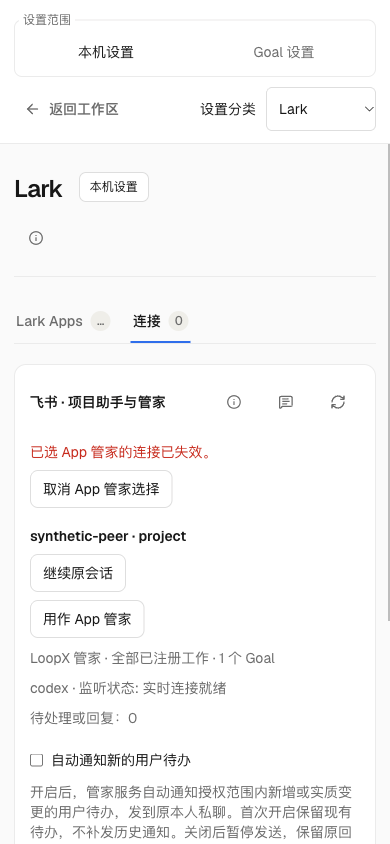
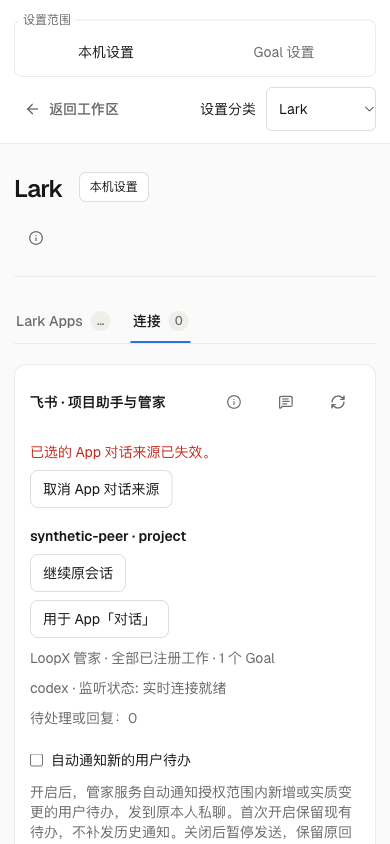
Clarify App Conversation scope and cover later source changes

diff --git a/apps/presentation/dashboard/src/features/personal-workspace/private-conversation-panel.tsx b/apps/presentation/dashboard/src/features/personal-workspace/private-conversation-panel.tsx
@@ -130,9 +130,9 @@ export function PrivateConversationPanel({apps, onOpenOriginal}: {apps: LarkApp[
       <button className="personal-private-refresh" disabled={busy} aria-label={zh ? "刷新状态" : "Refresh status"} onClick={() => void act(refresh)} type="button"><RefreshCw size={16} aria-hidden="true"/></button>
     </header>
     {appStewardBindingId !== null && !rows.some(row => row.binding_id === appStewardBindingId) ? <div className="personal-detail-actions">
-      <p role="alert">{zh ? "已选 App 管家的连接已失效。" : "The selected App steward connection is unavailable."}</p>
+      <p role="alert">{zh ? "已选的 App 对话来源已失效。" : "The selected App Conversation source is unavailable."}</p>
       <button type="button" disabled={busy} onClick={() => void act(() => selectAppSteward(null, revision))}>
-        {zh ? "取消 App 管家选择" : "Clear App steward selection"}</button>
+        {zh ? "取消 App 对话来源" : "Clear App Conversation source"}</button>
     </div> : null}
     {rows.map(row => <article className="personal-private-connection" key={row.binding_id}>
       <header className="personal-private-heading">
@@ -143,7 +143,7 @@ export function PrivateConversationPanel({apps, onOpenOriginal}: {apps: LarkApp[
       {row.context_kind === "steward" && row.audience === "owner" ? <button type="button" disabled={busy || (!row.context_available && appStewardBindingId !== row.binding_id)}
         aria-pressed={appStewardBindingId === row.binding_id}
         onClick={() => void act(() => selectAppSteward(appStewardBindingId === row.binding_id ? null : row.binding_id, revision))}>
-        {appStewardBindingId === row.binding_id ? (zh ? "App 管家 · 取消选择" : "App steward · Clear selection") : (zh ? "用作 App 管家" : "Use as App steward")}</button> : null}
+        {appStewardBindingId === row.binding_id ? (zh ? "App「对话」· 取消选择" : "App Conversation · Clear selection") : (zh ? "用于 App「对话」" : "Use for App Conversation")}</button> : null}
       </header>
       <p>{row.context_kind === "steward" ? (row.goal_scope === "all_registered"
         ? (zh ? `LoopX 管家 · 全部已注册工作 · ${row.goal_count} 个 Goal` : `LoopX steward · All registered work · ${row.goal_count} Goals`)

diff --git a/apps/presentation/dashboard/smoke/app-steward-smoke.ts b/apps/presentation/dashboard/smoke/app-steward-smoke.ts
@@ -34,7 +34,7 @@ try {
   const before = await inspect();
   assert.equal(before.sessions, 3);
   assert.equal(await fetchAppStewardTarget(), null, "No implicit selection between two original stewards");
-  const peer = connections.connections.find(row => row.app_ref === "synthetic-peer")!;
+  let peer = connections.connections.find(row => row.app_ref === "synthetic-peer")!;
   assert.ok(peer && peer.binding_id !== bindingId);
   connections = await selectAppSteward(bindingId, connections.revision);
   const target = {bindingId, sessionId};
@@ -59,6 +59,16 @@ try {
   assert.equal(after.sessions, before.sessions);
   assert.deepEqual(after.messages, before.messages);
   assert.equal(after.native_requests, before.native_requests, "Entry lookup and preference never invoke a model or replay a Turn");
+  child.stdin.write("replace-peer\n");
+  const replaced = await next();
+  connections = await fetchPrivateConversations();
+  const futurePeer = connections.connections.find(row => row.app_ref === "synthetic-peer")!;
+  assert.notEqual(futurePeer.binding_id, peer.binding_id);
+  assert.equal(futurePeer.binding_id, replaced.new_peer_binding_id);
+  assert.deepEqual(await fetchAppStewardTarget(), target, "A newly connected steward cannot capture the selected entry");
+  peer = futurePeer;
+  child.stdin.write("close\n"); await next();
+  await assert.rejects(() => fetchAppStewardTarget(), /selected original steward is unavailable/);
   child.stdin.write("revoke\n"); await next();
   connections = await fetchPrivateConversations();
   assert.equal(connections.app_steward_binding_id, bindingId);

diff --git a/apps/presentation/dashboard/src/features/personal-workspace/app-steward-entry.tsx b/apps/presentation/dashboard/src/features/personal-workspace/app-steward-entry.tsx
@@ -37,7 +37,7 @@ export function AppStewardEntry({children, onOpen}: {children: ReactNode; onOpen
   settings.searchParams.set("settings_tab", "lark");
   return <main className="mx-auto flex min-h-dvh max-w-xl flex-col justify-center gap-5 p-6 text-slate-900 dark:text-zinc-100">
     <h1 className="text-xl font-semibold">{zh ? "LoopX 管家" : "LoopX steward"}</h1>
-    {state === "loading" ? <p role="status">{zh ? "正在打开原管家会话…" : "Opening the original steward conversation…"}</p> : <>
+    {state === "loading" ? <p role="status">{zh ? "正在打开管家对话…" : "Opening the steward conversation…"}</p> : <>
       <p role="alert">{zh ? "原管家会话暂不可用。请检查所选连接后重试。" : "The original steward conversation is unavailable. Check the selected connection and retry."}</p>
       <div className="flex flex-wrap gap-3">
         <Button onClick={() => {setState("loading"); setRevision(value => value + 1);}}>{zh ? "重试" : "Retry"}</Button>

diff --git a/apps/presentation/dashboard/smoke/bound-conversation-http-fixture.py b/apps/presentation/dashboard/smoke/bound-conversation-http-fixture.py
@@ -6,6 +6,7 @@ credentials or model account is read or contacted. Stdin controls source events.
 from __future__ import annotations
 
 import json
+import os
 from pathlib import Path
 import runpy
 import socket
@@ -16,7 +17,8 @@ import threading
 import pytest
 
 REPO = Path(__file__).resolve().parents[4]
-sys.path[:0] = [str(REPO), str(REPO / "tests/control_plane")]
+BACKEND = Path(os.environ.get("LOOPX_CHAT_FIXTURE_BACKEND_ROOT", REPO)).resolve()
+sys.path[:0] = [str(BACKEND), str(REPO), str(REPO / "tests/control_plane")]
 from canonical_authority_fixture import isolate_sqlite_runtime, promoted_create_fixture
 from loopx.chat_server import serve_chat
 
@@ -28,6 +30,7 @@ class SyntheticPrivateSource:
     def __init__(self, root, *, steward=False, peer=False):
         self.root, self.verified = root, True
         self.steward, self.peer = steward, peer
+        self.peer_provider = None
         if peer:
             self.transport_ref = "synthetic-peer"
 
@@ -80,6 +83,12 @@ class SyntheticPrivateSource:
                 elif command == "close":
                     server.chat_store.update_session(sid, status="closed")
                     result = {"closed": True}
+                elif command == "replace-peer" and self.peer_provider is not None:
+                    old = next(row for row in bindings.read()["bindings"] if row["transport_ref"] == self.peer_provider.transport_ref)
+                    bindings.disconnect(old["binding_id"], expected_revision=bindings.read()["revision"])
+                    self.peer_provider.start(server)
+                    fresh = next(row for row in bindings.read()["bindings"] if row["transport_ref"] == self.peer_provider.transport_ref)
+                    result = {"old_peer_binding_id": old["binding_id"], "new_peer_binding_id": fresh["binding_id"]}
                 elif command == "revoke":
                     bindings.disconnect(binding["binding_id"], expected_revision=bindings.read()["revision"])
                     result = {"revoked": binding["binding_id"]}
@@ -121,6 +130,7 @@ def main():
         steward = "--steward" in sys.argv
         source = SyntheticPrivateSource(root, steward=steward)
         peer = SyntheticPrivateSource(root, steward=True, peer=True) if steward else None
+        source.peer_provider = peer
         with socket.socket() as sock:
             sock.bind(("127.0.0.1", 0))
             port = sock.getsockname()[1]

diff --git a/docs/architecture/rfcs/app-conversation-and-async-inbox-v0.zh-CN.md b/docs/architecture/rfcs/app-conversation-and-async-inbox-v0.zh-CN.md
@@ -99,7 +99,7 @@ Lark listener 观测。该本地 hook 只读取缓存，不发起网络请求。
 不回退到普通管家/项目历史，不新建替代 Session，也不在这里切换执行器或模型。
 群受众保留原有边界。
 
-已有本人私聊管家连接还提供 **用作 App 管家**。Core 在原 binding 集合中保存
+已有本人私聊管家连接还提供 **用于 App「对话」**。Core 在原 binding 集合中保存
 明确的入口选择，不改变受众、受管身份或执行授权。多个管家不按列表顺序或最近
 活跃时间竞争。点击本机 App 管家聊天时，仅在所选来源中发现当前已有 Session，
 随后将确切 binding 与 Session 固定在 URL。发现完成前阻止普通输入框出现；

diff --git a/docs/architecture/rfcs/app-conversation-and-async-inbox-v0.md b/docs/architecture/rfcs/app-conversation-and-async-inbox-v0.md
@@ -140,7 +140,7 @@ remain unavailable. There is no fallback to ordinary steward/project history,
 Session creation, executor change or model reconfiguration on this entry.
 Group audiences retain their existing boundary.
 
-An owner-private steward connection also offers **Use as App steward**. Core
+An owner-private steward connection also offers **Use for App Conversation**. Core
 stores this explicit entry preference alongside the binding set, without
 changing any audience, managed identity or execution grant. Multiple stewards
 never compete by list order or recent activity. The local App steward Chat
